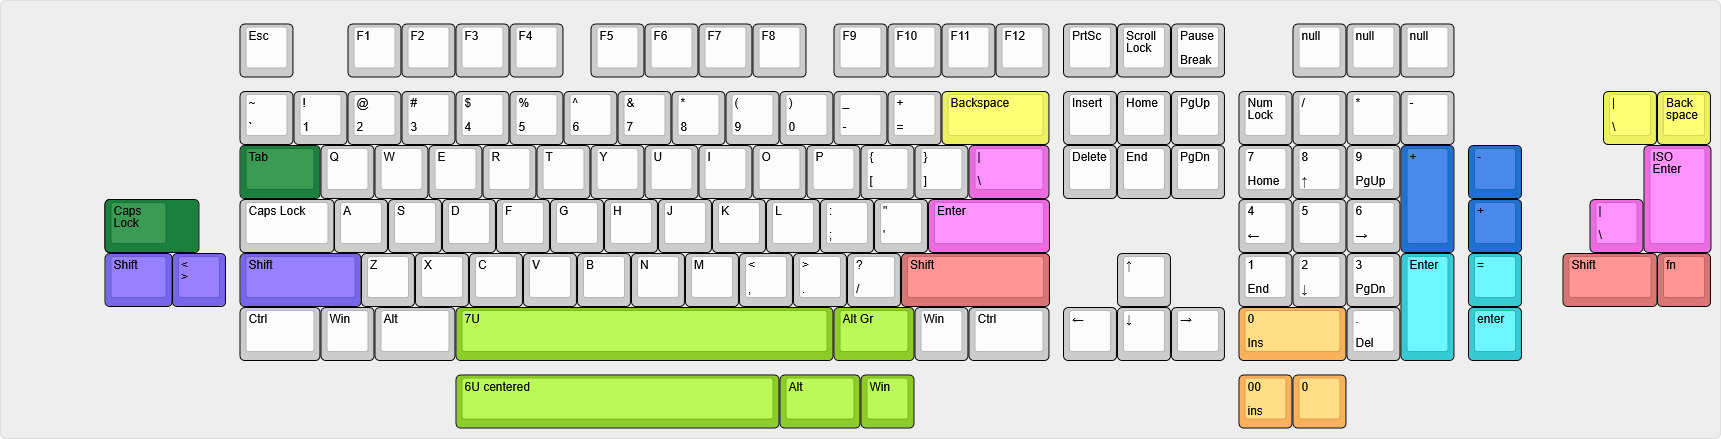
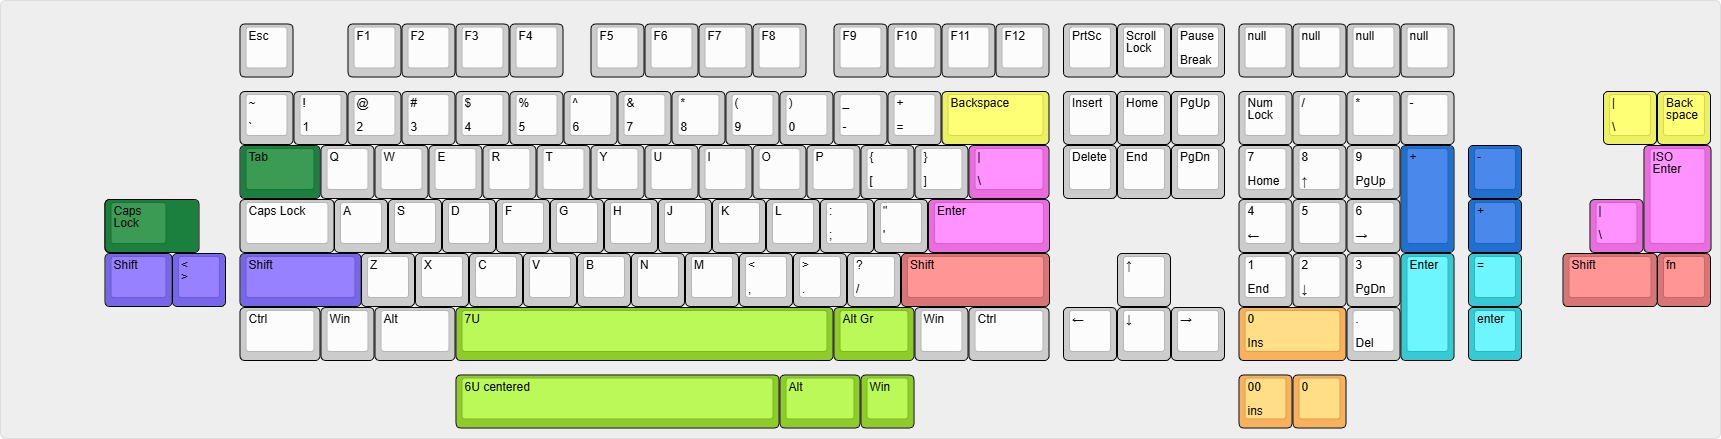
update readme and graphics

diff --git a/README.md b/README.md
@@ -5,12 +5,12 @@
 
 ## Introduction
 
-**Fullsize Universal Keyboard Circuitry 10X or fukc10X for short**, is an open-source, full-size (100%) mechanical keyboard PCB designed in KiCad. It's essentially a Daughterboard only h87 footprint pcb just with a numpad attached.
+**Fullsize Universal Keyboard Circuitry 10X or fukc10X for short**, is an open-source, full-size (100%) mechanical keyboard PCB designed in KiCad. It's essentially a h87 footprint pcb just with a numpad attached.
 
 This came to life after i wanted to design a Fullsize Keyboard but found out there were no modern opensource full-size keyboard pcbs.
 
-![Render Front](front.PNG)
-![Render Back](Back.png)
+![Render Front](PCB_Front.PNG)
+![Render Back](PCB_Back.png)
 
 ---
 
@@ -18,6 +18,7 @@ This came to life after i wanted to design a Fullsize Keyboard but found out the
 - Dual Indicators. You can have indicator leds for Caps Lock, Scroll Lock and Num Lock directly at the switches for the use with windowed Keycaps and above the numpad in a small cluster.
 - Decent layout support with ANSI+ISO Enter, split l-Shift, split r-Shift, split Backspace, split numpad Enter, split numpad plus and split numpad minus (just check the diagramm)
 - Supported bottomrows are Tsangan **7U** aswell as **6U** bottom row, like the Realforce R1 87U. (*I will not be adding 6.25u bottom row*)
+- Breakeaway onboard USB-C connector, pads for soldering a USB-cable to, as well as a JST connector for the use with a UDB
 
 ---
 
